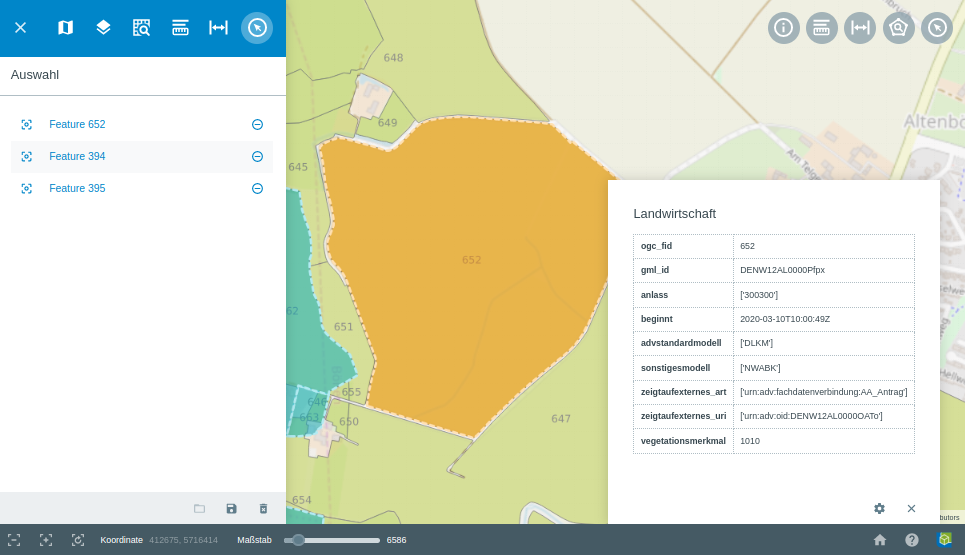
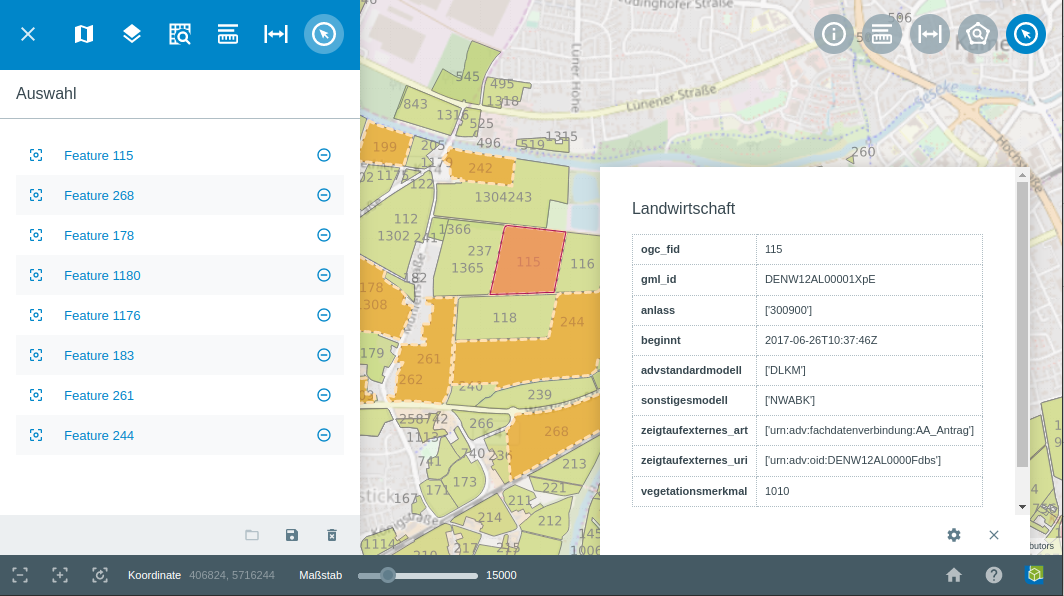
GWS Doku Update #2618 #2619 #2620

diff --git a/doc/sphinx/books/client-user/de/sidebar/cadastral_unit_searching.rst b/doc/sphinx/books/client-user/de/sidebar/cadastral_unit_searching.rst
@@ -21,7 +21,7 @@ Es stehen verschiedene Flurstück-Parameter zur Auswahl, die individuell konfigu
 So können Flurstücke anhand von Straßen, Gemarkungen, Flächengrößen, Buchungsblatt- oder Flurstücknummern gesucht werden.
 Wenn der ``Zugang zu Personendaten`` aktiviert wird, ist es ebenfalls möglich anhand von Vor- und Nachname, Flurstücke zu suchen.
 Der Zugang zu persönlichen Daten kann so konfiguriert werden, dass zum Beispiel nur verifizierte Nutzer, Zugriff darauf haben.
-Es ist möglich, dass alle Anfragen nach Personendaten geloggt und in einer PostGIS Datei abgelegt werden. So wird jede Anfrage protokolliert und kann somit kontrolliert werden.
+Es ist möglich, dass alle Anfragen nach Personendaten geloggt und in einer PostGIS Datei abgelegt werden. So wird jede Anfrage protokolliert und kann kontrolliert werden.
 
 .. .. figure:: ../../../screenshots/de/client-user/cadastral_unit_search_data_rights.png
   :align: center
@@ -31,23 +31,22 @@ Wenn der Zugang aktiviert ist, sieht die Suchmaske wie folgt aus.
 .. figure:: ../../../screenshots/de/client-user/cadastral_unit_searching_6.png
   :align: center
 
-Die Flurstücksuche wird über das Icon |search| ``Suche`` gestartet. Eine neue Anfrage kann per |new_search| ``Neue Anfrage`` gestartet werden.
-Dabei werden die Inhalte aller Felder gelöscht. Die Erklärung für die Funktionen :ref:`Markieren und Messen <measure>`,
-:ref:`Räumliche Suche <searching>` und :ref:`Auswählen <selecting>` entnehmen Sie bitte dem jeweiligen Kapitel in dieser Hilfe.
-Auf Wunsch könnten diese Funktionen als Werkzeug, direkt in der Werkzeugleiste platziert werden.
-Wenn Sie zum Beispiel ein GBD WebSuite Projekt nutzen würden, um damit ausschließlich Flurstücke zu verwalten, könnte dies von Nutzen sein.
-Die Flurstück-:ref:`Auswählen <selecting>` Funktion könnte dann zum Beispiel in der Werkzeugleiste integriert sein.
+Die Flurstücksuche wird über das Icon |search| ``Suche`` gestartet. Eine neue Suche kann per |new_search| ``Neue Anfrage`` gestartet werden.
+Dabei werden die Inhalte aller Felder gelöscht. Die Erklärung für die Funktionen |spatial_search| ``Flurstücke über räumliche Suche finden``
+und |select| ``Einzelne Flurstücke in der Karte auswählen`` erfolgt im späteren Teil dieses Kapitels.
+Auf Wunsch können diese Funktionen als Werkzeug, prominent in der Werkzeugleiste platziert werden.
+Wenn Sie zum Beispiel ein GBD WebSuite Projekt nutzen, um damit ausschließlich Flurstücke zu verwalten, könnte dies von Nutzen sein.
 So wäre ein schnelles Auswählen einzelner Flurstücke möglich, ohne den Menüpunkt ``Flurstücksuche`` auswählen zu müssen.
-Dieser öffnet sich dann automatisch, wenn ein Flurstück ausgewählt wurde.
+Dieser öffnet sich dann automatisch, wenn Sie das Werkzeug auswählen.
+
+.. rubric:: Optionale Konfigurationen zur Darstellung der Gemarkungsliste
 
 Es gibt verschiedene Möglichkeiten zur Konfiguration der Flurstücksuche. Es müssen nicht alle Parameter definiert werden.
-So können Sie definieren, ob die Suche nach einem speziellen Flurstück oder nach allen Flurstücken einer Straße erfolgen soll.
-Um nach einer Straße zu suchen, muss auch keine Gemarkung eingetragen werden. So ist die Suche auch bei großen Datenmengen performant möglich.
+So können Sie zum Beispiel definieren, ob die Suche nach einem speziellen Flurstück oder nach allen Flurstücken einer Straße erfolgen soll.
+Um nach einer Straße zu suchen, muss keine Gemarkung eingetragen werden. So ist die Suche auch bei großen Datenmengen performant möglich.
 Ob die Suche nach Straßen mit oder ohne Vorauswahl der Gemarkung stattfinden soll, kann ebenfalls konfiguriert werden.
 Bei der Suche anhand von Mindest- und Maximalfläche in Quadratmetern, können Kommastellen für das Eintragen von Zentimeter-Werten verwendet werden.
 Folgende Konfigurationen stehen zur Verfügung:
-
-.. rubric:: Optionale Konfigurationen zur Darstellung der Gemarkungsliste
 
 * keine Gemarkungsliste anzeigen
 * die Gemarkungsliste anzeigen als eine Liste von Gemarkungsnamen
@@ -139,7 +138,7 @@ Beim Export in das CSV Format können Sie eine Auswahl treffen und dann auf den 
 .. rubric:: Drucken der Flurstückinformationen
 
 Über das |print| Symbol können Sie die ausgewählten Flurstückinformationen drucken.
-Der Inhalt des Ausdrucks, kann individuell über ein Template vorbereitet werden.
+Der Inhalt des Ausdrucks, kann individuell über eine Vorlage vorbereitet werden.
 Dieses kann auch eine Kartendarstellung des jeweiligen Flurstücks beinhalten.
 
 .. rubric:: Arbeiten mit der Ablage

diff --git a/doc/sphinx/books/client-user/de/sidebar/select.rst b/doc/sphinx/books/client-user/de/sidebar/select.rst
@@ -3,25 +3,29 @@
 Auswahl
 =======
 
-Der Menüpunkt |select| ``Auswahl`` in der Menüleiste |menu| ist ein Ablagebereich für Objekte, die über das |select| ``Auswählen``-Werkzeug im Kartenfenster erfasst wurden.
+Der Menüpunkt |select| ``Auswahl`` ist ein Ablagebereich für Objekte, die über das |select|:ref:`Auswählen <selecting>`-Werkzeug im Kartenfenster selektiert wurden.
 Die Menüebene wird automatisch geöffnet, wenn das ``Auswählen``-Werkzeug aktiviert wird.
 
  .. figure:: ../../../screenshots/de/client-user/select.png
    :align: center
 
-So können Sie in diesem Menüpunkt eine Übersicht, über die von Ihnen ausgewählten Objekte, gewinnen.
+Hier können Sie eine Übersicht, über die von Ihnen ausgewählten Objekte, gewinnen.
+Alle angewählten und somit aufgelisteten Objekte werden orange markiert.
 Diese Objekte können über |fokus| fokusiert werden oder über das |delete| Icon aus der Auswahl entfernt werden.
+Wenn Sie den Titel eines Objektes anklicken, wird das Objekt rot markiert und es öffnet sich ein Informationsfenster.
+
+.. figure:: ../../../screenshots/de/client-user/select2.png
+  :align: center
+
+In diesem Pop-Up Fenster können verschiedene Informationen über das angewählte Objekt abgelesen werden. Außerdem ist es möglich über |settings| weitere Funktionen auszuwählen.
+Die Erklärung für die Funktionen :ref:`Markieren und Messen <measure>` und :ref:`Auswählen <selecting>` entnehmen Sie bitte dem jeweiligen Punkt, dieser Dokumentation.
+Über |fokus| ``Hinzoomen`` fokusieren Sie das dazugehörige Objekt.
 
 Am unteren Fensterrand befinden sich erneut eine Reihe von Funktionen für speziell dieses Menü.
 Es ist möglich die Auswahl zu speichern |save| oder eine zuvor abgespeicherte Auswahl erneut zu laden |load|.
 Über |delete_marking| können Sie die gesamte Auswahl löschen.
 
-Wenn ein Objekt ausgewählt wird, wird dieses gelb markiert und es erscheint, rechts unten im Kartenfenster, ein Informationsfenster (siehe Bild unten).
-In diesem Pop-Up Fenster können verschiedene Informationen über das angewählte Objekt abgelesen werden. Außerdem ist es möglich über |settings| weitere Funktionen auszuwählen.
-Die Erklärung für die Funktionen :ref:`Markieren und Messen <measure>`, :ref:`Räumliche Suche <searching>` und :ref:`Auswählen <selecting>` entnehmen Sie bitte dem jeweiligen Punkt, dieser Dokumentation.
-Über ``Auswahl`` kehren Sie wieder zum ursprünglichen ``Auswahl``-Werkzeug zurück. So können Sie weitere Objekte auswählen, welche dann in dem Auswahl-Menü aufgelistet werden.
-Alle angewählten und somit aufgelisteten Objekte werden rot markiert. Das zuletzt angewählte Objekt wird gelb markiert und es öffnet sich das dazugehörige Informationsfenster.
-Über |fokus| ``Hinzoomen`` fokusieren Sie das gewünschte Objekt.
+
 
  .. figure:: ../../../screenshots/de/client-user/select2.png
   :align: center

diff --git a/doc/sphinx/books/client-user/de/toolbox/cadastral_unit_tools.rst b/doc/sphinx/books/client-user/de/toolbox/cadastral_unit_tools.rst
@@ -1,0 +1,50 @@
+.. _cadastral_unit_tools:
+
+Flurstücksuche Werkzeuge
+========================
+
+Funktionen der :ref:`Flurstücksuche <cadastral_unit_searching>` können prominent in der Werkzeugleiste angeordnet werden.
+Die beiden Funktionen ``Flurstücke über räumliche Suche finden`` und ``Einzelne Flurstücke in der Karte auswählen`` können so direkt aktiviert werden.
+
+.. rubric:: Flurstücke in der Karte über eine räumliche Suche finden
+
+Mit Hilfe des Werkzeuges |spatial_search| ``Flurstücke über räumliche Suche finden`` ist es möglich, Flurstücke durch das Zeichnen von Geometrien zu ermitteln.
+Es öffnet sich in der Toolbar die Leiste für die Räumliche Suche, mit dem Verweis, dass nun in den Flurstücken gesucht wird.
+
+**Beispiel: Auswahl Flurstücke durch Linie**
+
+Wählen Sie das Tool Linie aus. Zeichnen Sie nun parallel zu einer Straße eine Linie und schließen Sie diese mit einem Doppelklick ab.
+Anschließend werden Ihnen die Flurstücke in den Ergebnissen aufgelistet, welche von der Linie geschnitten werden. Auf dem Screenshot unten sieht man ein mögliches Ergebnis.
+
+ .. figure:: ../../../screenshots/de/client-user/cadastral_unit_searching_area_search.png
+   :align: center
+
+.. rubric:: Flurstücke in der Karte selektieren
+
+Das Werkzeug |select| ``Einzelne Flurstücke in der Karte wählen`` ermöglicht die Selektierung einzelner Flurstücke.
+Sobald das Werkzeug aktiviert ist, können Sie per Mausklick gewünschte Flurstücke aussuchen, welche dann in der Ablage aufgelistet werden.
+
+ .. figure:: ../../../screenshots/de/client-user/cadastral_unit_searching_5.png
+   :align: center
+
+.. note::
+  Die Längeneinheit kann individuell angepasst werden.
+
+ .. |dimensions| image:: ../../../images/gbd-icon-bemassung-02.svg
+   :width: 30em
+ .. |arrow| image:: ../../../images/cursor.svg
+   :width: 30em
+ .. |line| image:: ../../../images/dim_line.svg
+   :width: 30em
+ .. |cancel| image:: ../../../images/baseline-close-24px.svg
+   :width: 30em
+ .. |trash| image:: ../../../images/baseline-delete-24px.svg
+   :width: 30em
+ .. |1| image:: ../../../images/gws_digits-01.svg
+   :width: 35em
+ .. |2| image:: ../../../images/gws_digits-02.svg
+   :width: 35em
+ .. |select| image:: ../../../images/gbd-icon-auswahl-01.svg
+   :width: 30em
+ .. |spatial_search| image:: ../../../images/gbd-icon-raeumliche-suche-01.svg
+   :width: 30em

diff --git a/doc/sphinx/books/client-user/de/toolbox/selecting.rst b/doc/sphinx/books/client-user/de/toolbox/selecting.rst
@@ -3,12 +3,20 @@
 Auswählen
 =========
 
-Über das |select| ``Auswählen``-Werkzeug können Objekte in der Karte ausgewählt werden. Aktivieren Sie das Werkzeug indem Sie auf |select| klicken. Nun öffnet sich automatisch das dazu gehörige Fenster ``Auswahl`` in der Menüleiste. Dort werden alle Objekte, egal ob Punkt, Linie, Kreis oder Polygon aufgelistet und können weiter bearbeitet werden.
+Über das |select| ``Auswählen``-Werkzeug können Objekte in der Karte selektiert werden.
+Aktivieren Sie das Werkzeug indem Sie auf |select| in der Werkzeugleiste klicken.
+Jetzt können Sie Objekte anklicken und somit selektieren. Die ausgewählten Objekte werden orange markiert.
+Wenn Sie ein Objekt ein zweits mal Anklicken, wird die Selektion aufgehoben.
 
-Am unteren Fensterrand befinden sich eine Reihe von Funktionen für speziell diesen Menüpunkt. Zum einen ist es möglich die Auswahl zu speichern |save|, eine zuvor abgespeicherte Auswahl erneut zu laden |load|, sowie die Auswahl zu löschen |delete_marking|.
+Alle selektierten Objekte, werden in der Ablage des Menüpunkts :ref:`Auswahl <select> aufgelistet.
+Dieser Menüpunkt öffnet sich automatisch, wenn das ``Auswählen``-Werkzeug aktiviert wird.
+
+Am unteren Menüfensterrand befinden sich eine Reihe von Funktionen für speziell diesen Menüpunkt.
+Zum einen ist es möglich, die Auswahl zu speichern |save|, eine zuvor abgespeicherte Auswahl erneut zu laden |load| sowie die Auswahl zu löschen |delete_marking|.
 
 .. note::
- Auf Wunsch kann das ``Auswählen``-Werkzeug und der dazu gehörige Menüpunkt deaktiviert werden. Es wäre zum Beispiel auch möglich, dass mit diesem Werkzeug nur Objekte von gewissen Layern ausgewählt werden können.
+ Auf Wunsch kann das ``Auswählen``-Werkzeug und der dazu gehörige Menüpunkt deaktiviert werden.
+ Es wäre zum Beispiel auch möglich, dass mit diesem Werkzeug nur Objekte von gewissen Layern ausgewählt werden können oder nur gewisse Geometrietypen.
 
  .. |select| image:: ../../../images/gbd-icon-auswahl-01.svg
    :width: 30em

diff --git a/doc/sphinx/books/client-user/de/toolbox/mapfunction.rst b/doc/sphinx/books/client-user/de/toolbox/mapfunction.rst
@@ -25,5 +25,6 @@ Dadurch ist es möglich, auf jeden Wunsch individuell einzugehen.
     gkos.rst
     dimensioning.rst
     measure.rst
+    cadastral_unit_tools.rst
     print.rst
     screenshot.rst
